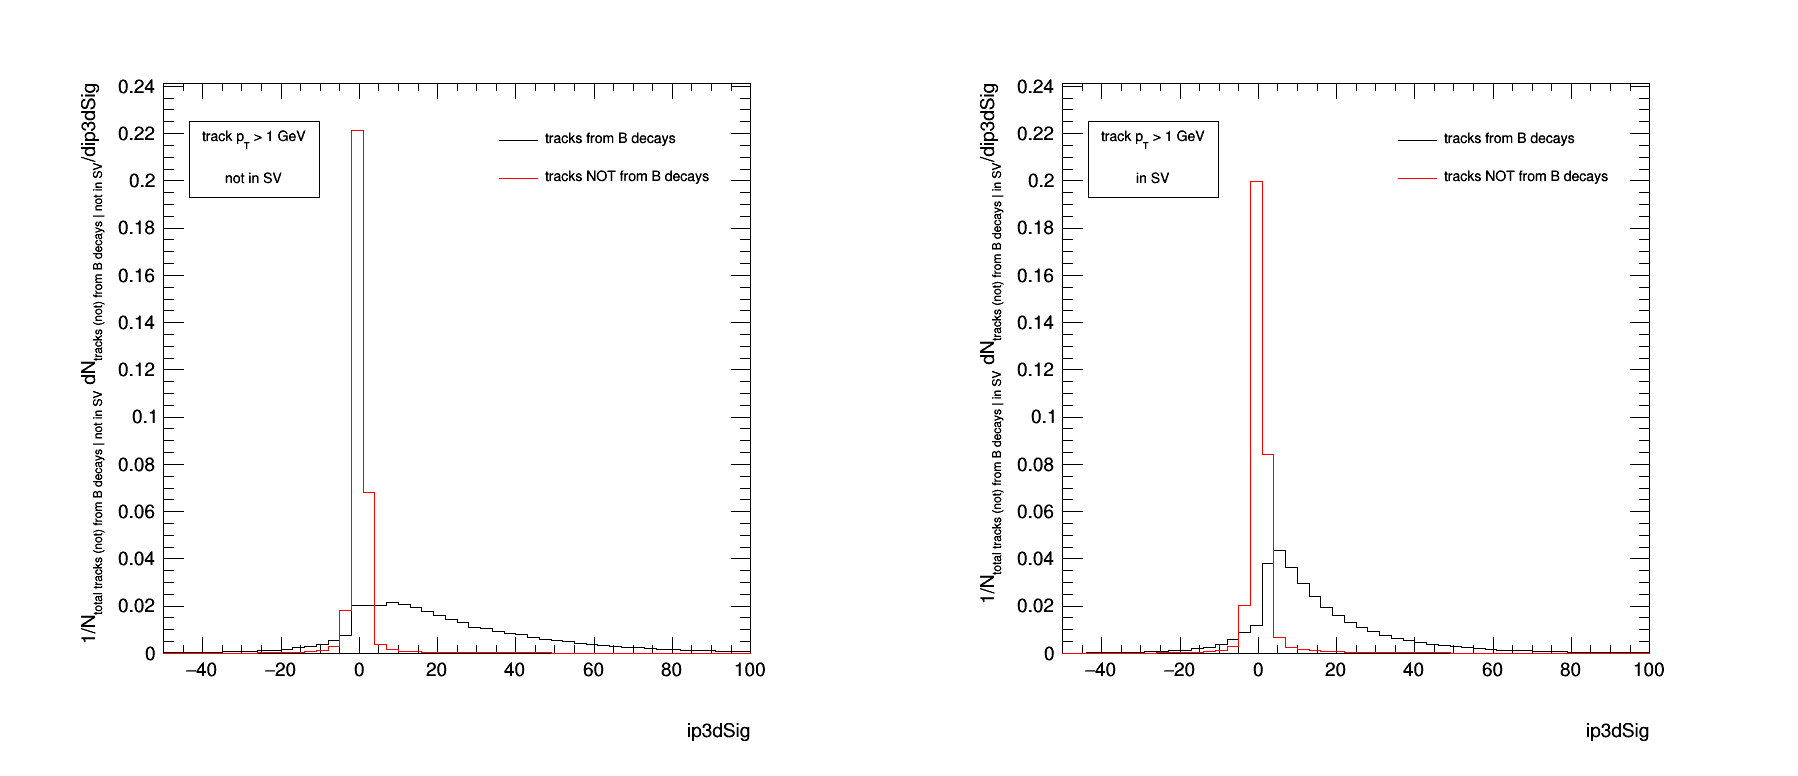
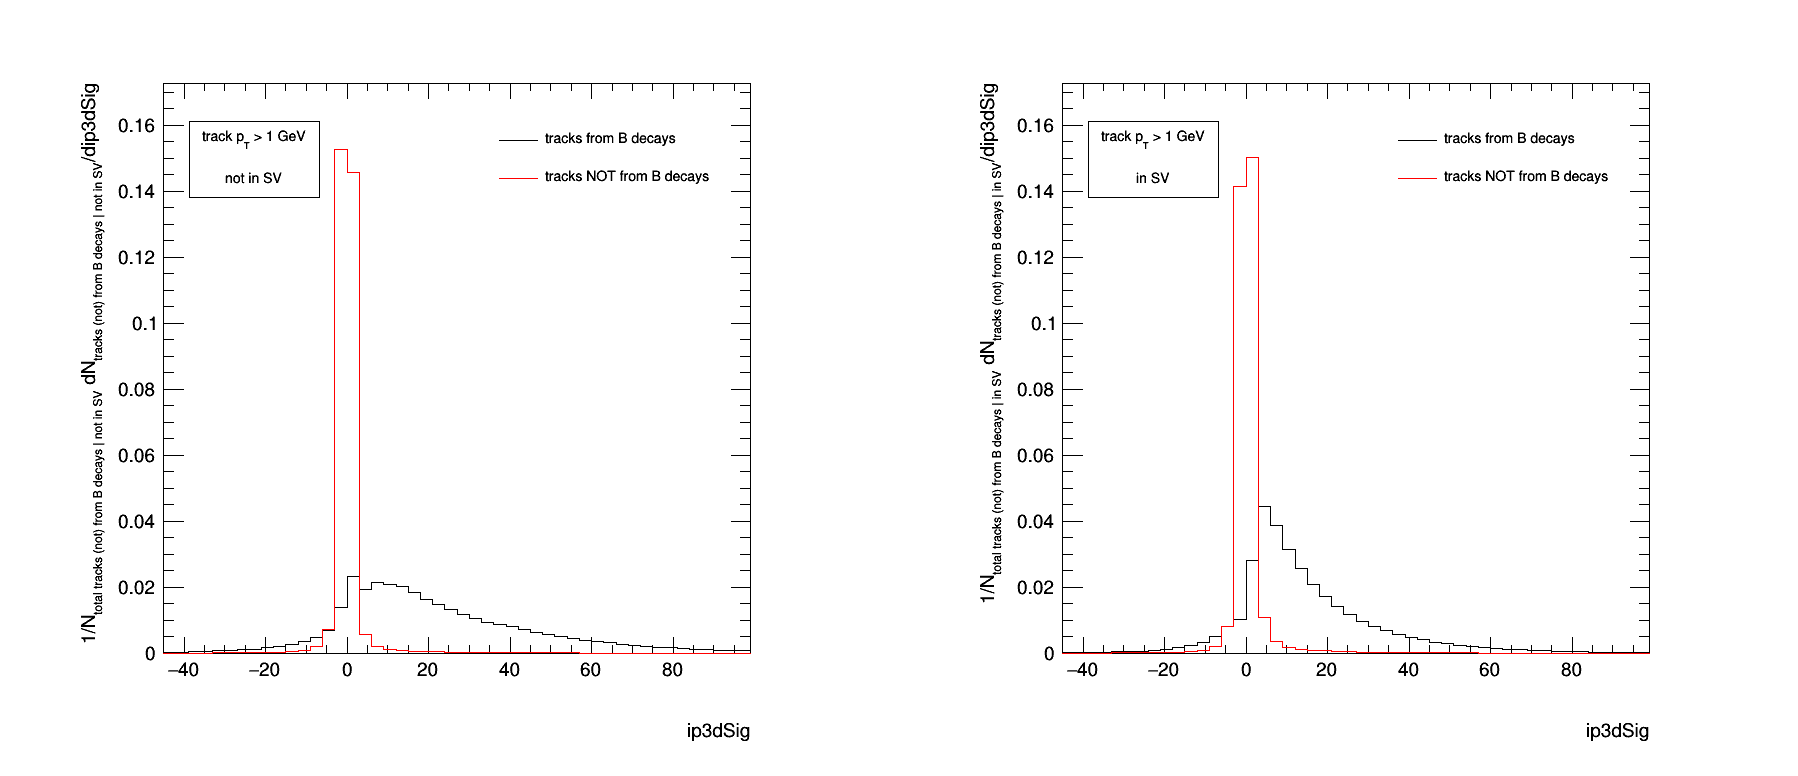
fix bug with binning

diff --git a/myMacros/svvar_discr_power/plot_discriminants.C b/myMacros/svvar_discr_power/plot_discriminants.C
@@ -33,9 +33,9 @@ void plot_discriminants()
     TFile *fout = new TFile(foutname.c_str(), "recreate");
 
     // ip3dSig
-    Int_t x1bins = 50;
-    Float_t x1min = -50.;
-    Float_t x1max = 100.;
+    Int_t x1bins = 48;
+    Float_t x1min = -45.;
+    Float_t x1max = 99.;
 
     TH1D *hsig_ip3dSig = new TH1D("hsig_ip3dSig", "histogram of ip3dSig, signal", x1bins, x1min, x1max);
     TH1D *hbkg_ip3dSig = new TH1D("hbkg_ip3dSig", "histogram of ip3dSig, background", x1bins, x1min, x1max);
